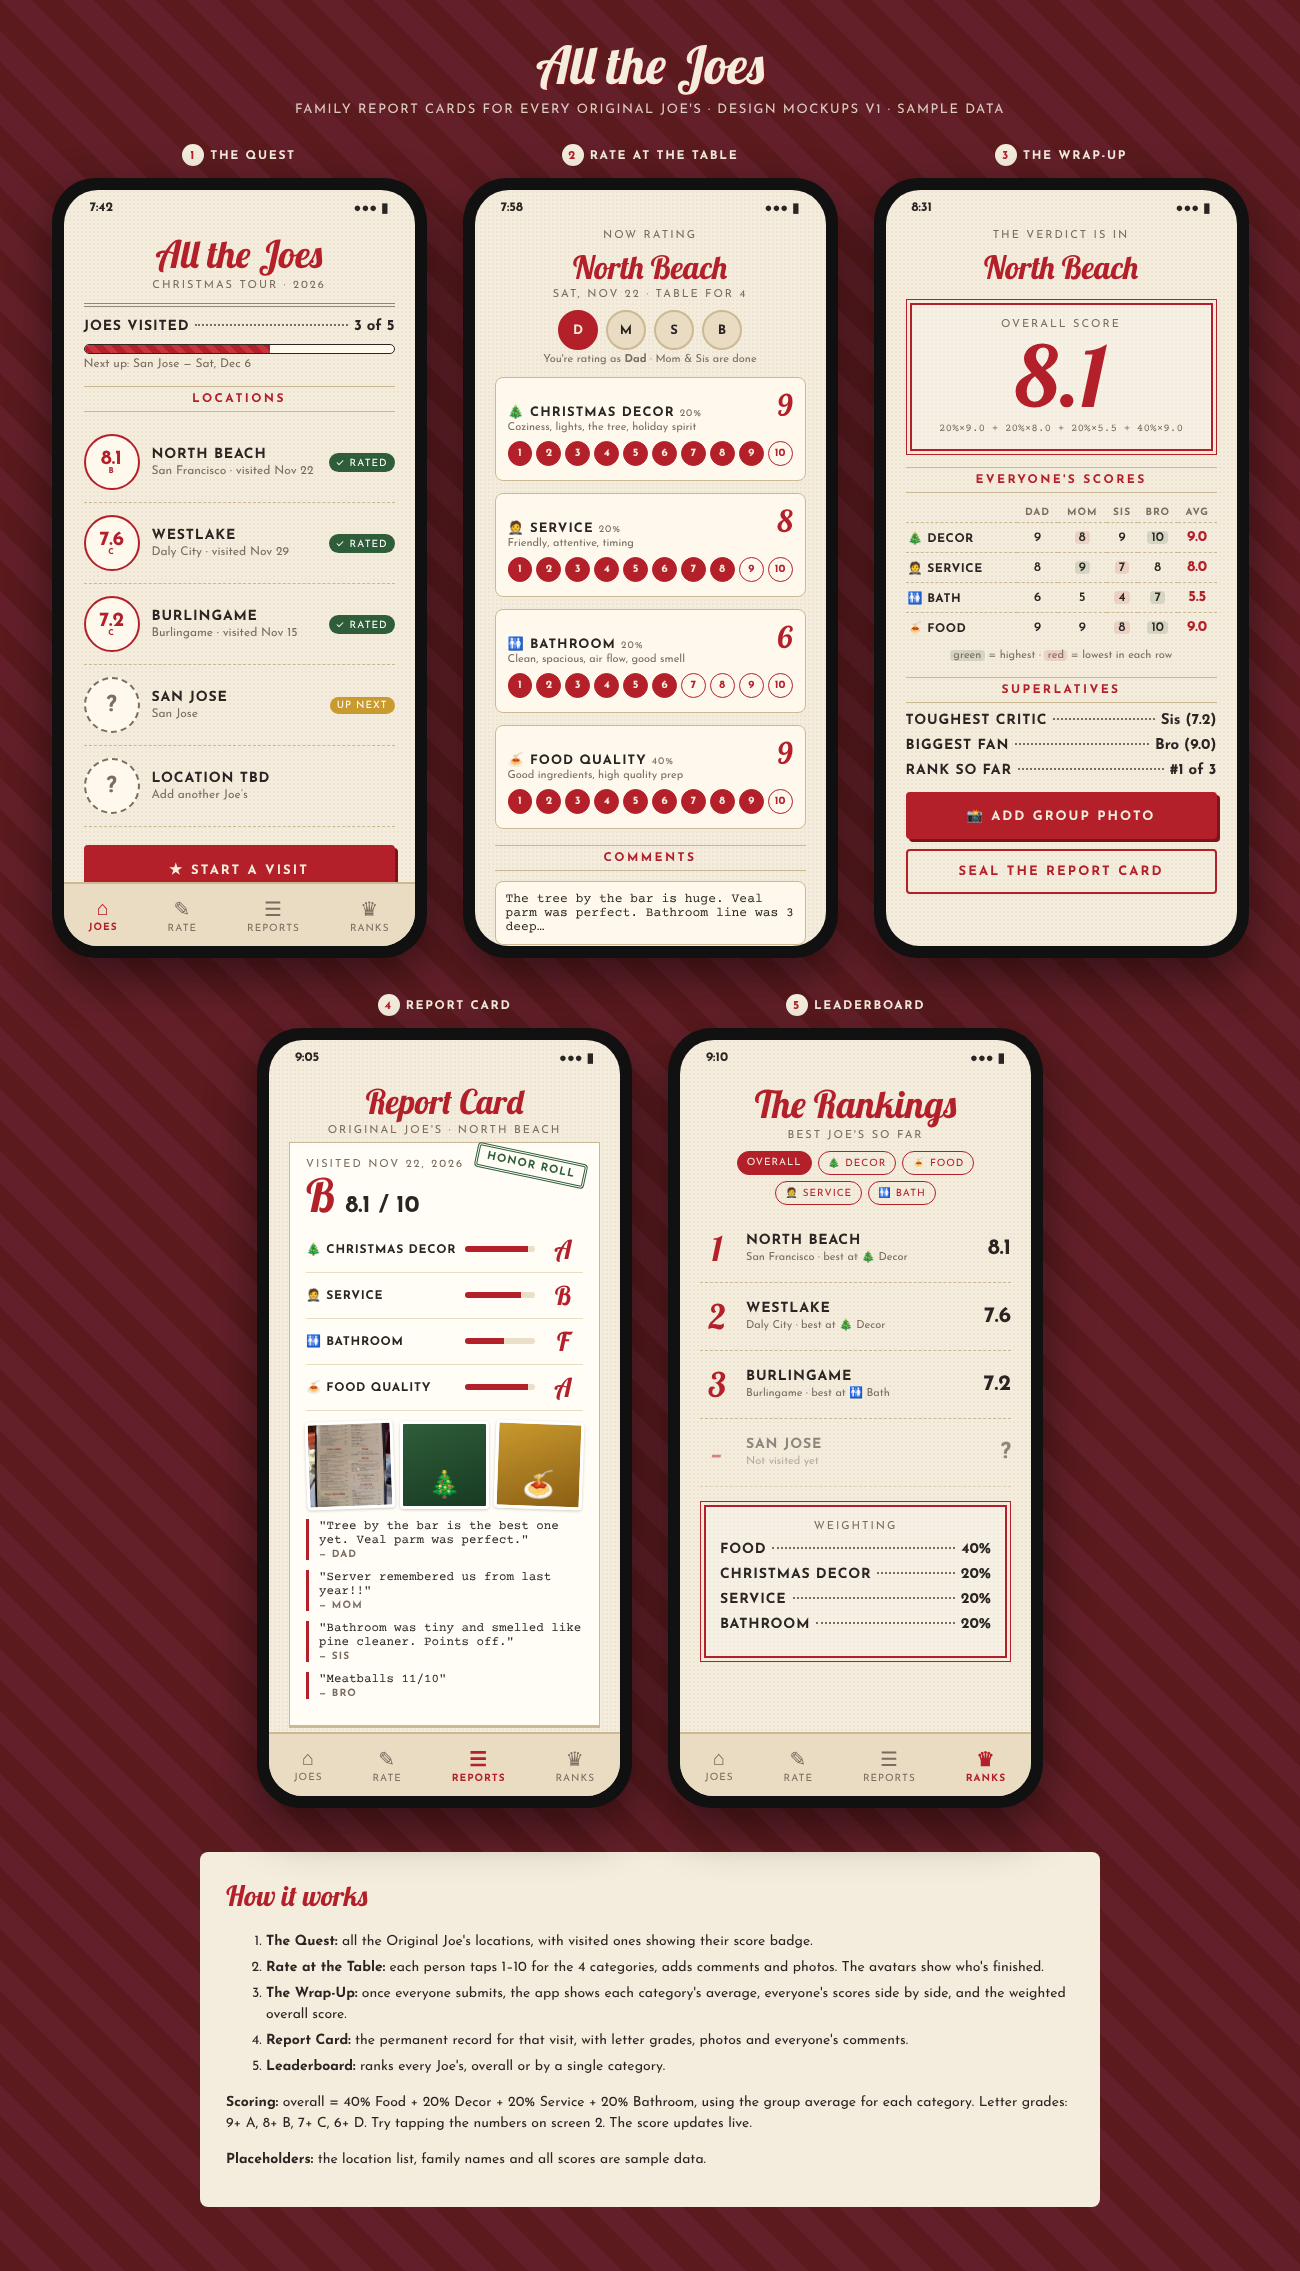
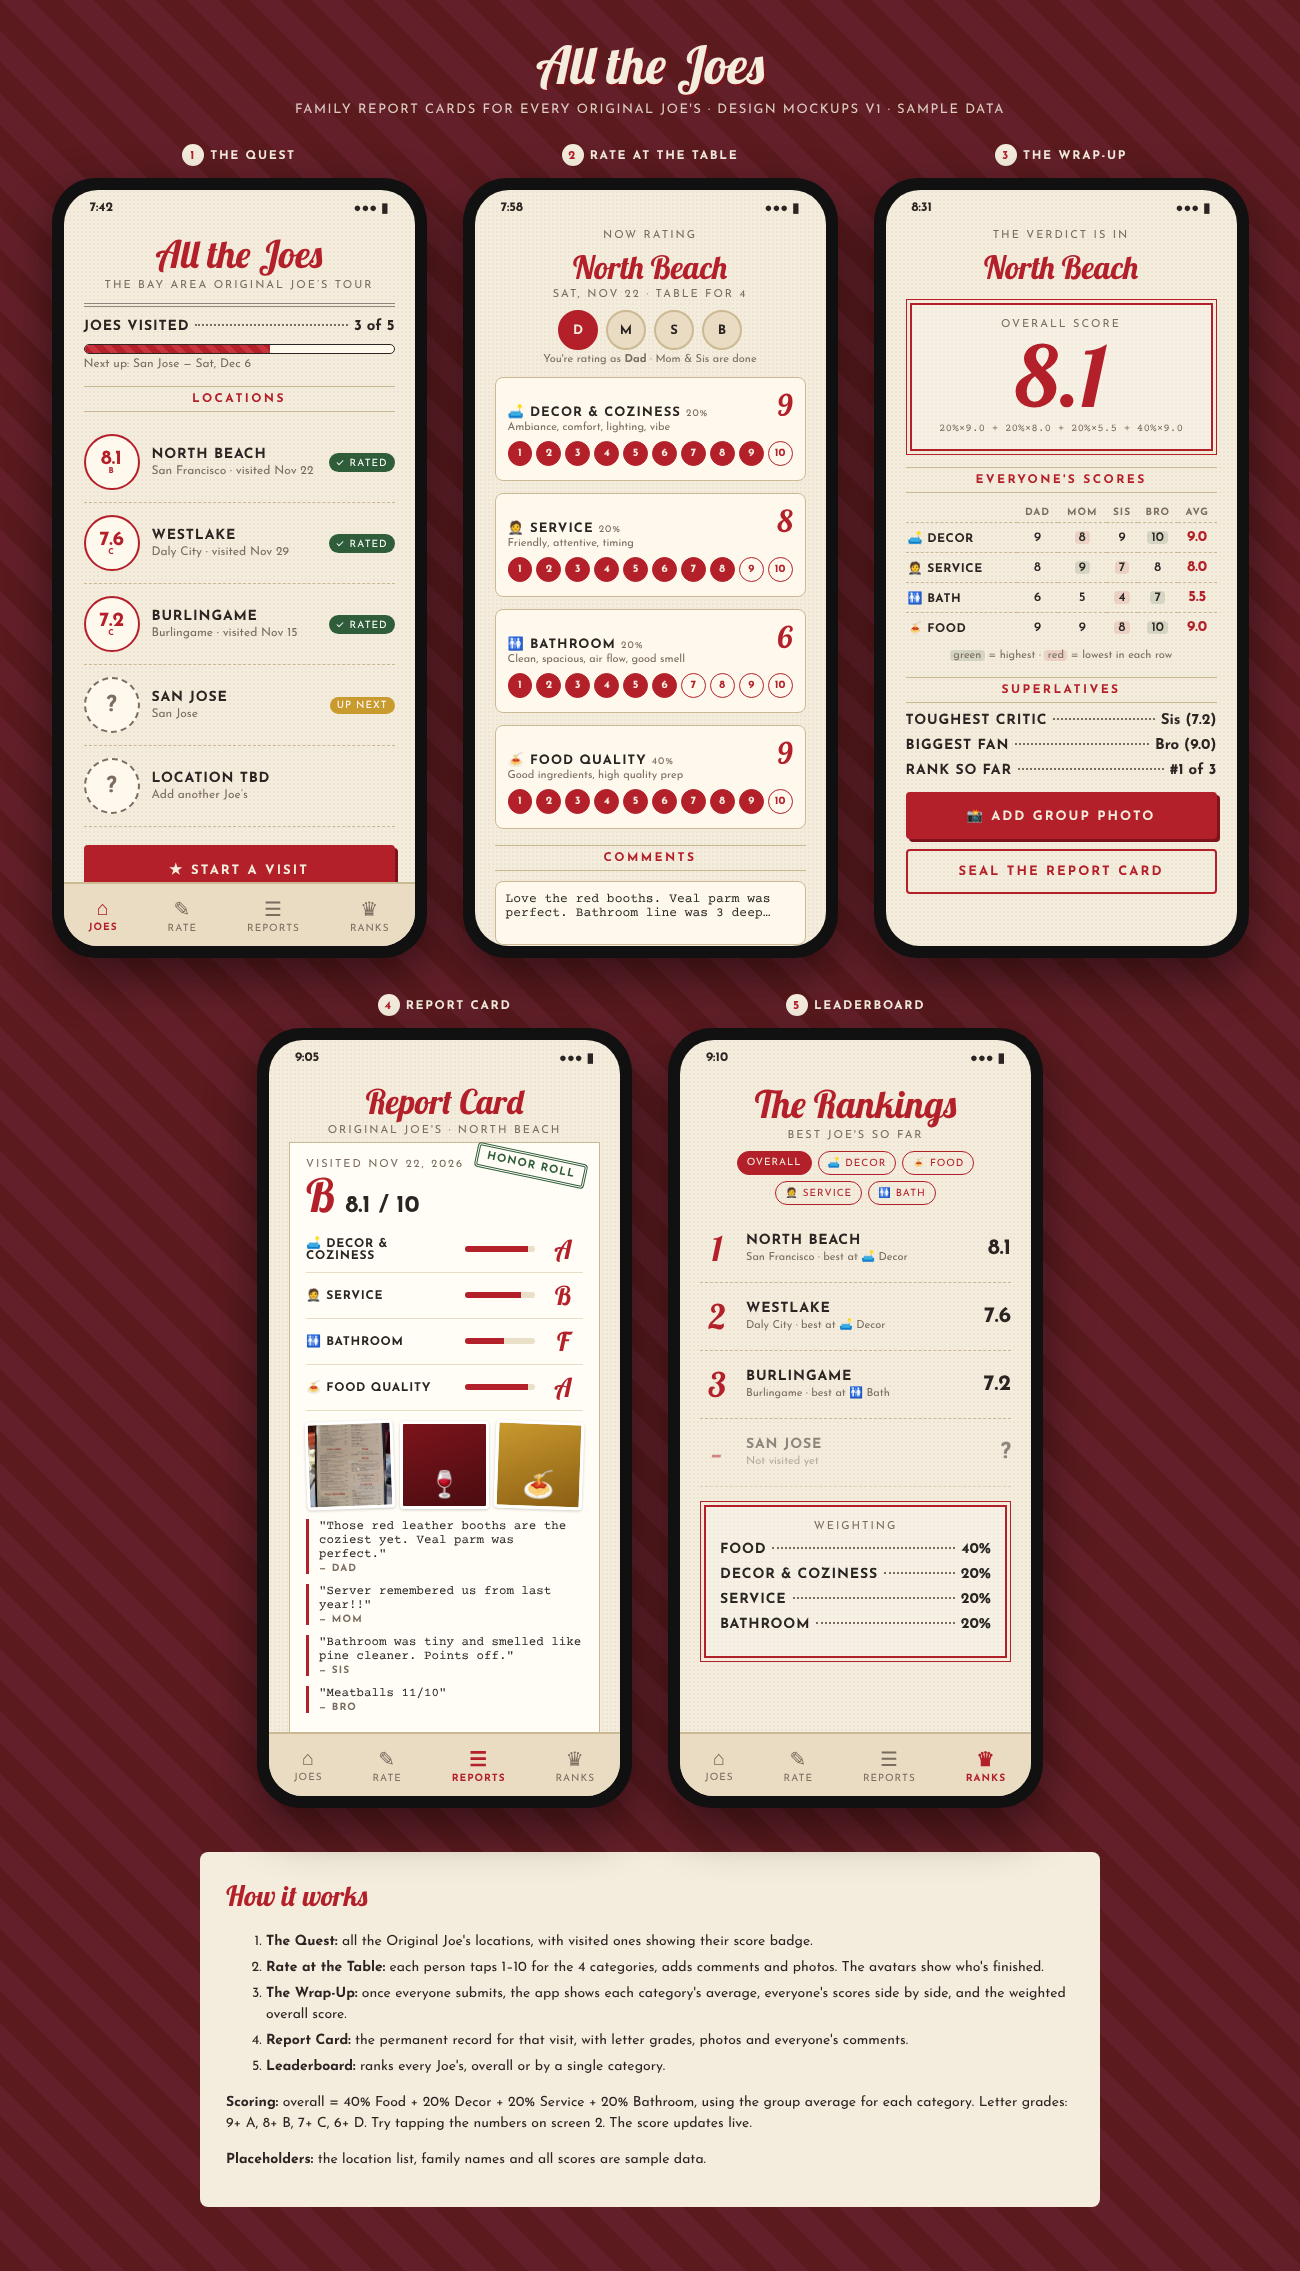
Make mockups general ratings instead of a Christmas tour
Claude-Session: https://claude.ai/code/session_011Dx8EhM5jGPoau32W4JsVq

Changed region(s): [[0.2462, 0.6165, 0.4, 0.7706], [0.2462, 0.524, 0.3077, 0.5548], [0.4615, 0.1541, 0.4923, 0.1849]]

diff --git a/mockups/index.html b/mockups/index.html
@@ -163,7 +163,7 @@
       <div class="status"><span>7:42</span><span>●●● ▮</span></div>
       <div class="scroll">
         <h2 class="script">All the Joes</h2>
-        <div class="sub">Christmas Tour · 2026</div>
+        <div class="sub">The Bay Area Original Joe’s Tour</div>
         <hr class="rule">
         <div class="row"><span class="name">Joes Visited</span><span class="dots"></span><span class="val">3 of 5</span></div>
         <div class="progress"><div style="width:60%"></div></div>
@@ -199,11 +199,11 @@
         <div id="cats"></div>
 
         <div class="section-head">Comments</div>
-        <textarea class="note">The tree by the bar is huge. Veal parm was perfect. Bathroom line was 3 deep…</textarea>
+        <textarea class="note">Love the red booths. Veal parm was perfect. Bathroom line was 3 deep…</textarea>
         <div class="section-head">Photos</div>
         <div class="photo-add">
           <div style="background-image:url(assets/menu.jpg)"></div>
-          <div>🎄</div>
+          <div>🍷</div>
           <div>＋</div>
         </div>
         <div class="row"><span class="name">Your Score</span><span class="dots"></span><span class="val" id="myOverall" style="color:var(--red);font-size:20px">—</span></div>
@@ -257,10 +257,10 @@
           <div id="rcGrades" style="margin-top:6px"></div>
           <div class="photos">
             <div style="background-image:url(assets/menu.jpg)"></div>
-            <div style="background:linear-gradient(160deg,#2f5d3a,#183a22)">🎄</div>
+            <div style="background:linear-gradient(160deg,#7d141b,#4a0c10)">🍷</div>
             <div style="background:linear-gradient(160deg,#c99a2e,#8b5e14)">🍝</div>
           </div>
-          <div class="quote">"Tree by the bar is the best one yet. Veal parm was perfect."<em>— Dad</em></div>
+          <div class="quote">"Those red leather booths are the coziest yet. Veal parm was perfect."<em>— Dad</em></div>
           <div class="quote">"Server remembered us from last year!!"<em>— Mom</em></div>
           <div class="quote">"Bathroom was tiny and smelled like pine cleaner. Points off."<em>— Sis</em></div>
           <div class="quote">"Meatballs 11/10"<em>— Bro</em></div>
@@ -285,13 +285,13 @@
         <h2 class="script">The Rankings</h2>
         <div class="sub">Best Joe's So Far</div>
         <div class="chips">
-          <span class="on">Overall</span><span>🎄 Decor</span><span>🍝 Food</span><span>🤵 Service</span><span>🚻 Bath</span>
+          <span class="on">Overall</span><span>🛋 Decor</span><span>🍝 Food</span><span>🤵 Service</span><span>🚻 Bath</span>
         </div>
         <div id="ranks"></div>
         <div class="boxed" style="margin-top:18px">
           <div class="sub">Weighting</div>
           <div class="row"><span class="name">Food</span><span class="dots"></span><span class="val">40%</span></div>
-          <div class="row"><span class="name">Christmas Decor</span><span class="dots"></span><span class="val">20%</span></div>
+          <div class="row"><span class="name">Decor &amp; Coziness</span><span class="dots"></span><span class="val">20%</span></div>
           <div class="row"><span class="name">Service</span><span class="dots"></span><span class="val">20%</span></div>
           <div class="row"><span class="name">Bathroom</span><span class="dots"></span><span class="val">20%</span></div>
         </div>
@@ -323,7 +323,7 @@
 <script>
 const W = { food: .4, decor: .2, service: .2, bath: .2 };
 const CATS = [
-  { k: 'decor',   name: '🎄 Christmas Decor', hint: 'Coziness, lights, the tree, holiday spirit' },
+  { k: 'decor',   name: '🛋 Decor & Coziness', hint: 'Ambiance, comfort, lighting, vibe' },
   { k: 'service', name: '🤵 Service',         hint: 'Friendly, attentive, timing' },
   { k: 'bath',    name: '🚻 Bathroom',        hint: 'Clean, spacious, air flow, good smell' },
   { k: 'food',    name: '🍝 Food Quality',    hint: 'Good ingredients, high quality prep' },
@@ -381,7 +381,7 @@ renderCats();
 const nbO = overall(nbAvg);
 document.getElementById('wrapOverall').textContent = f1(nbO);
 document.getElementById('wrapMath').innerHTML = CATS.map(c => `${W[c.k] * 100}%×${f1(nbAvg[c.k])}`).join(' + ');
-const short = { decor: '🎄 Decor', service: '🤵 Service', bath: '🚻 Bath', food: '🍝 Food' };
+const short = { decor: '🛋 Decor', service: '🤵 Service', bath: '🚻 Bath', food: '🍝 Food' };
 document.getElementById('wrapTable').innerHTML =
   `<tr><th></th>${PEOPLE.map(p => `<th>${p}</th>`).join('')}<th>Avg</th></tr>` +
   CATS.map(c => {
